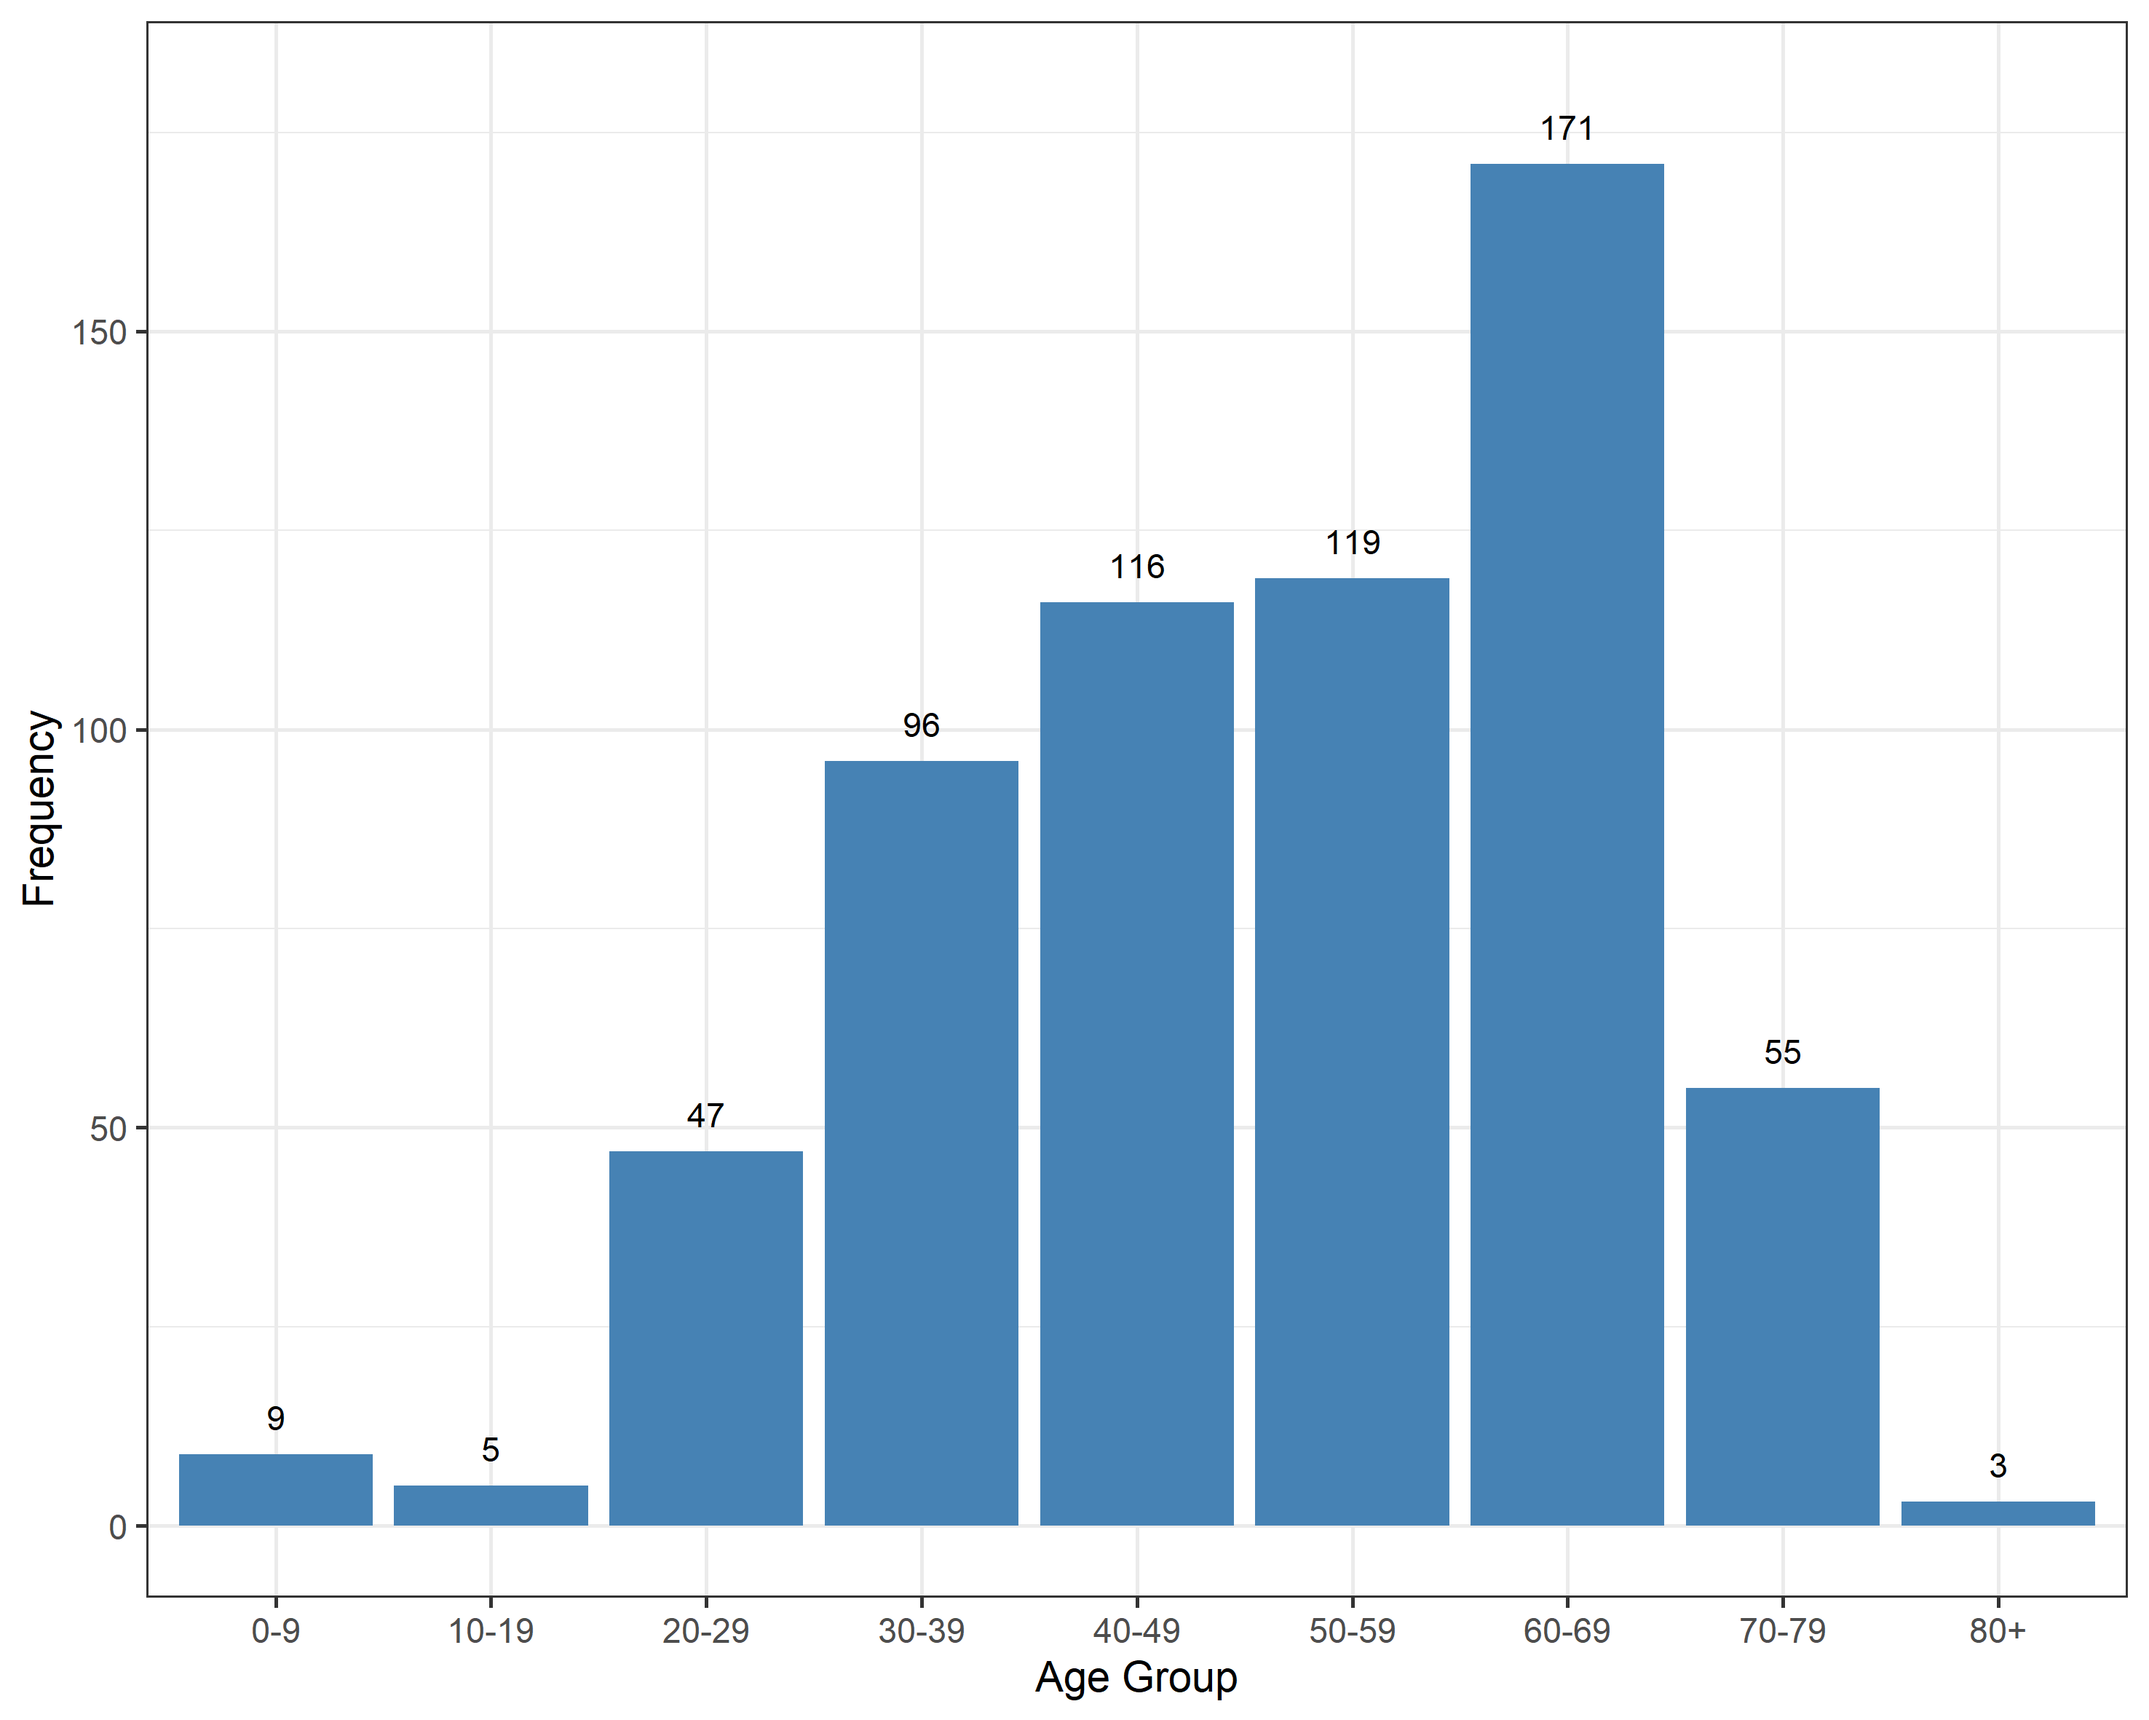
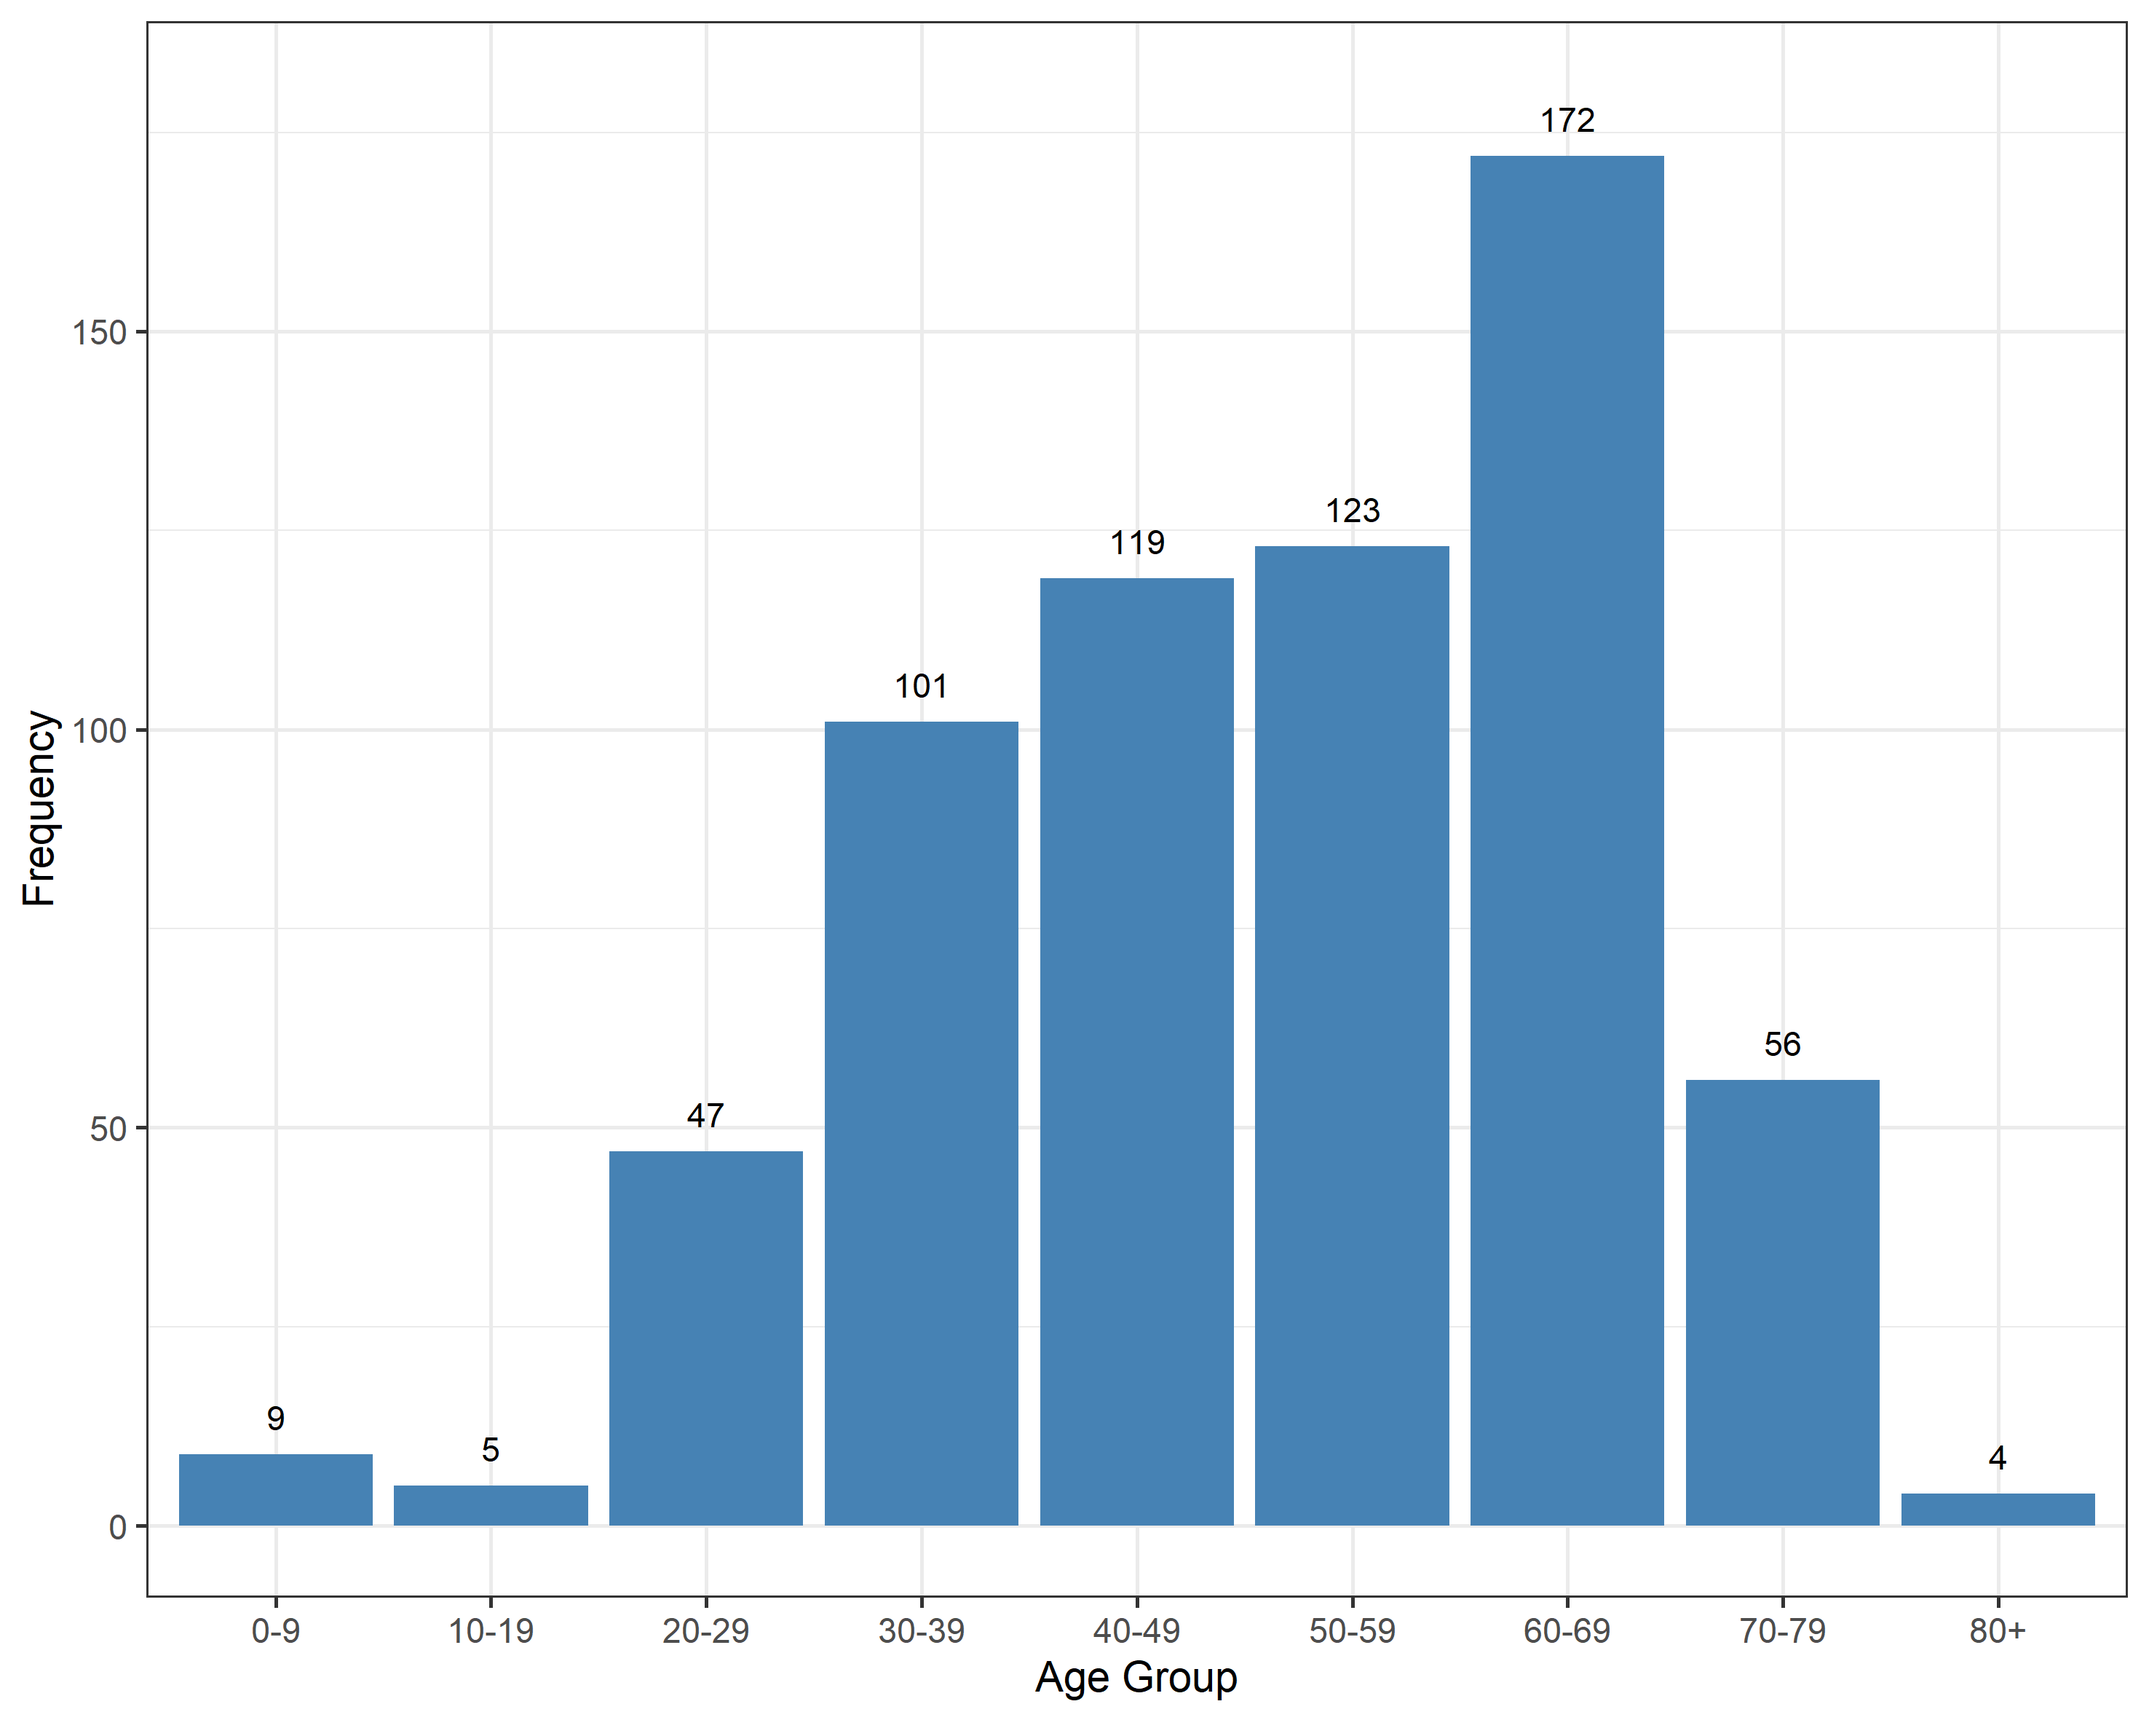
update 14/6

diff --git a/public/assets/locales/fr-be/markdowns/results-0.md b/public/assets/locales/fr-be/markdowns/results-0.md
@@ -1,13 +1,13 @@
-`Dernière modification de cette page le 08.juin.2021 10:00.`
+`Dernière modification de cette page le 14.juin.2021 10:00.`
 <br />
 
-OOn this page you will be able to see the latest results from the data collected by Infectieradar.be.
+On this page you will be able to see the latest results from the data collected by Infectieradar.be.
 <br />
 
 
 ## Background Information
 
-On June 8, 2021 we had 622 participants. 53.7% of the participants are female, and 46.3% male. The majority of the participants (83.8%) reported having no previous Covid-19 episode. 4.8% of the participants had a positive Covid-19 test in the past. 11.4% of the participants think they had a previous Covid-19 episode.
+On June 14, 2021 we had 637 participants. 53.4% of the participants are female, and 46.6% male. The majority of the participants (83.8%) reported having no previous Covid-19 episode. 4.7% of the participants had a positive Covid-19 test in the past. 11.5% of the participants think they had a previous Covid-19 episode.
 <br />
 
 ### Age distribution
@@ -25,11 +25,10 @@ On June 8, 2021 we had 622 participants. 53.7% of the participants are female, a
 
 ## Weekly Symptoms
 
-On June 8, 2021 we had 3679 completed weekly symptom questionnaires from 545 participants. In 77.2% of the symptom questionnaires it was reported that there were *no symptoms*.
+On June 14, 2021 we had 3983 completed weekly symptom questionnaires from 587 participants. In 77.4% of the symptom questionnaires it was reported that there were *no symptoms*.
 
 ### Reported symptoms
 
 In the figure below we present how often (in percentages) a symptom was reported in questionnaires where at least one symptom was reported.
 
 <img src="assets/images/ReportedSymptoms_NL.png" width="100%">
-

diff --git a/public/assets/locales/nl-be/markdowns/results-0.md b/public/assets/locales/nl-be/markdowns/results-0.md
@@ -1,4 +1,4 @@
-`Deze pagina is voor het laatst aangepast op 08.jun.2021 10:00.`
+`Deze pagina is voor het laatst aangepast op 14.jun.2021 10:00.`
 <br />
 
 Op deze pagina vindt u de actuele resultaten van Infectieradar.
@@ -7,7 +7,7 @@ Op deze pagina vindt u de actuele resultaten van Infectieradar.
 
 ## Achtergrond Informatie
 
-Op 8 juni 2021 hadden we 622 deelnemers. 53,7% van de deelnemers is vrouw, en 46,3% is man. Een meerderheid van deelnemers (83.8%) rapporteerden dat ze nog geen Covid-19 hebben gehad. 4.8% van de deelnemers hebben in het verleden positief getest op Covid-19. 11.4% van de deelnemers hebben een sterk vermoeden dat ze Covid-19 hebben gehad.
+Op 14 juni 2021 hadden we 637 deelnemers. 53,4% van de deelnemers is vrouw, en 46,6% is man. Een meerderheid van deelnemers (83.8%) rapporteerden dat ze nog geen Covid-19 hebben gehad. 4.7% van de deelnemers hebben in het verleden positief getest op Covid-19. 11.5% van de deelnemers hebben een sterk vermoeden dat ze Covid-19 hebben gehad.
 <br />
 
 ### Leeftijdsverdeling
@@ -25,7 +25,7 @@ Op 8 juni 2021 hadden we 622 deelnemers. 53,7% van de deelnemers is vrouw, en 46
 
 ## Wekelijkse Symptomen
 
-Op 8 juni 2021 hadden we 3679 ingevulde wekelijkse symptomen vragenlijsten van 573 deelnemers. In 77.2% van de vragenlijsten werd gerapporteerd dat er *geen symptomen* waren.
+Op 14 juni 2021 hadden we 3983 ingevulde wekelijkse symptomen vragenlijsten van 587 deelnemers. In 77.4% van de vragenlijsten werd gerapporteerd dat er *geen symptomen* waren.
 
 ### Gerapporteerde symptomen
 In de figuur hieronder geven we procentueel aan hoe vaak een bepaald symptoom is gerapporteerd in de vragenlijsten waarbij minstens één symptoom werd doorgegeven.

diff --git a/public/assets/locales/de-be/markdowns/results-0.md b/public/assets/locales/de-be/markdowns/results-0.md
@@ -1,4 +1,4 @@
-`Diese Seite wurde zum letzten Mal angepasst am 08.Jun.2021 10:00.`
+`Diese Seite wurde zum letzten Mal angepasst am 14.Jun.2021 10:00.`
 <br />
 
 On this page you will be able to see the latest results from the data collected by Infectieradar.be.
@@ -7,7 +7,7 @@ On this page you will be able to see the latest results from the data collected 
 
 ## Background Information
 
-On June 8, 2021 we had 622 participants. 53.7% of the participants are female, and 46.3% male. The majority of the participants (83.8%) reported having no previous Covid-19 episode. 4.8% of the participants had a positive Covid-19 test in the past. 11.4% of the participants think they had a previous Covid-19 episode.
+On June 14, 2021 we had 637 participants. 53.4% of the participants are female, and 46.6% male. The majority of the participants (83.8%) reported having no previous Covid-19 episode. 4.7% of the participants had a positive Covid-19 test in the past. 11.5% of the participants think they had a previous Covid-19 episode.
 <br />
 
 ### Age distribution
@@ -25,7 +25,7 @@ On June 8, 2021 we had 622 participants. 53.7% of the participants are female, a
 
 ## Weekly Symptoms
 
-On June 8, 2021 we had 3679 completed weekly symptom questionnaires from 545 participants. In 77.2% of the symptom questionnaires it was reported that there were *no symptoms*.
+On June 14, 2021 we had 3983 completed weekly symptom questionnaires from 587 participants. In 77.4% of the symptom questionnaires it was reported that there were *no symptoms*.
 
 ### Reported symptoms
 

diff --git a/public/assets/locales/en/markdowns/results-0.md b/public/assets/locales/en/markdowns/results-0.md
@@ -1,4 +1,4 @@
-`This page has been last updated at 08.jun.2021 10:00.`
+`This page has been last updated at 14.jun.2021 10:00.`
 <br />
 
 On this page you will be able to see the latest results from the data collected by Infectieradar.be.
@@ -7,7 +7,7 @@ On this page you will be able to see the latest results from the data collected 
 
 ## Background Information
 
-On June 8, 2021 we had 622 participants. 53.7% of the participants are female, and 46.3% male. The majority of the participants (83.8%) reported having no previous Covid-19 episode. 4.8% of the participants had a positive Covid-19 test in the past. 11.4% of the participants think they had a previous Covid-19 episode.
+On June 14, 2021 we had 637 participants. 53.4% of the participants are female, and 46.6% male. The majority of the participants (83.8%) reported having no previous Covid-19 episode. 4.7% of the participants had a positive Covid-19 test in the past. 11.5% of the participants think they had a previous Covid-19 episode.
 <br />
 
 ### Age distribution
@@ -25,7 +25,7 @@ On June 8, 2021 we had 622 participants. 53.7% of the participants are female, a
 
 ## Weekly Symptoms
 
-On June 8, 2021 we had 3679 completed weekly symptom questionnaires from 545 participants. In 77.2% of the symptom questionnaires it was reported that there were *no symptoms*.
+On June 14, 2021 we had 3983 completed weekly symptom questionnaires from 587 participants. In 77.4% of the symptom questionnaires it was reported that there were *no symptoms*.
 
 ### Reported symptoms
 
